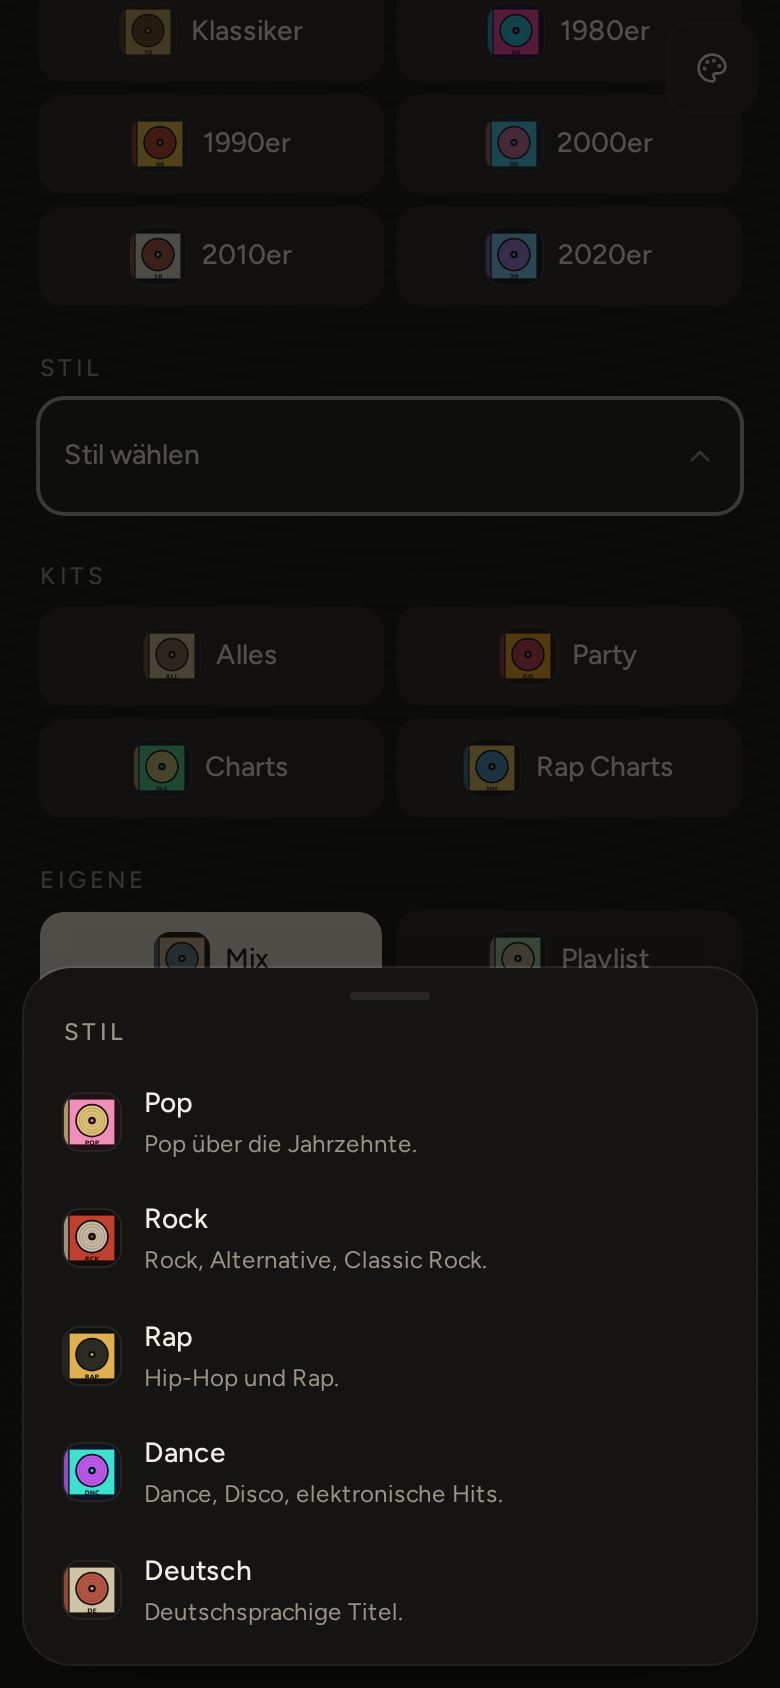
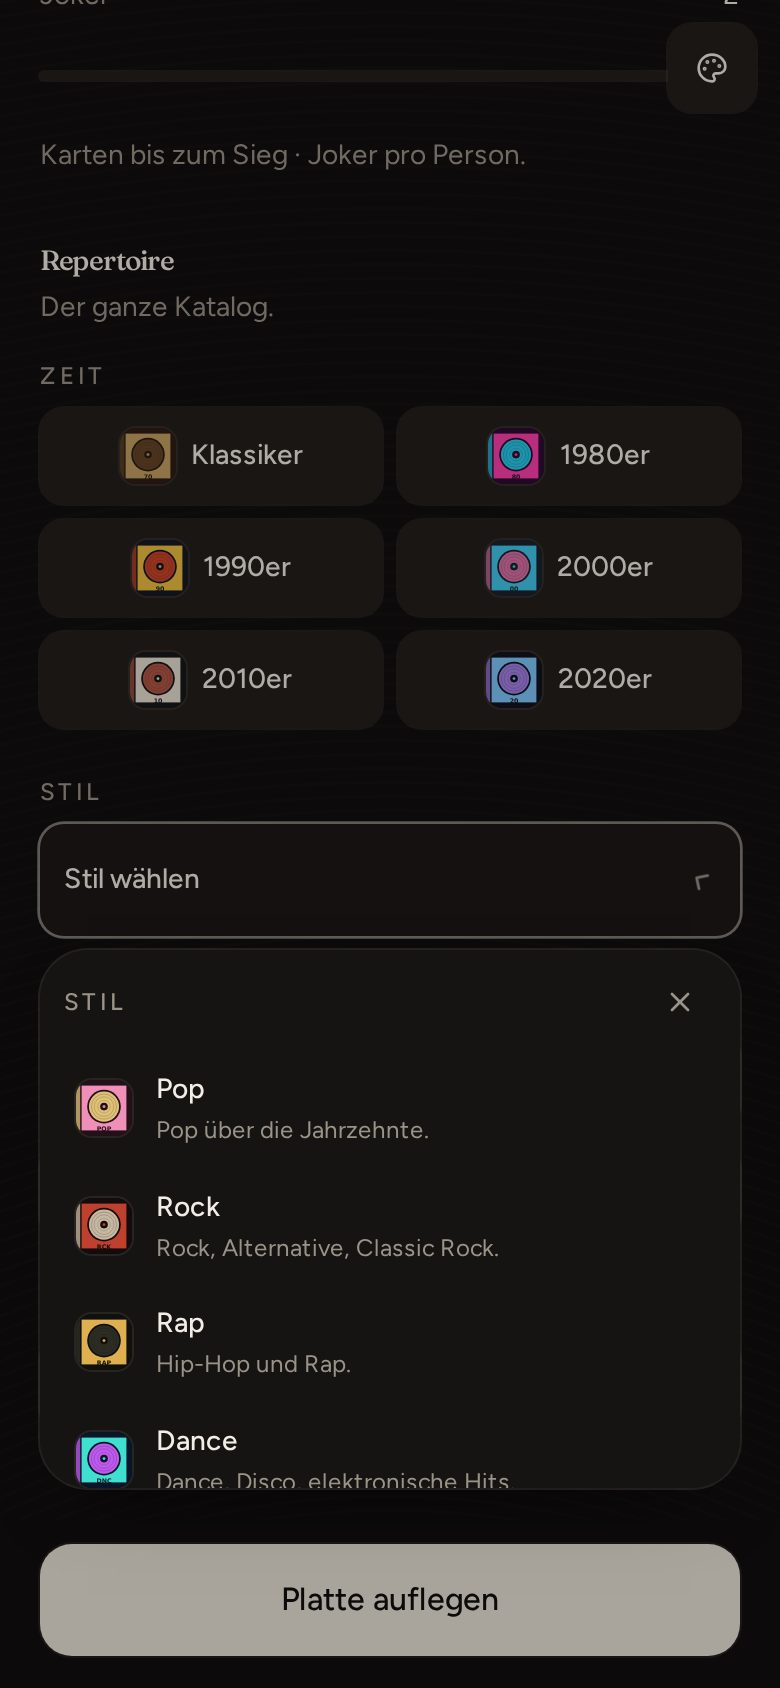
Mobile-Menüs klappen am Knopf auf, nicht unten.
Spiel, Stil und Genre bleiben unter dem Feld und halten Abstand zur Startleiste.

diff --git a/src/components/game/menu-select.tsx b/src/components/game/menu-select.tsx
@@ -20,22 +20,6 @@ type MenuSelectProps<T extends string> = {
   name?: string;
 };
 
-function useNarrow() {
-  const [narrow, setNarrow] = useState(() =>
-    typeof window !== "undefined" ? window.matchMedia("(max-width: 639px)").matches : false,
-  );
-
-  useEffect(() => {
-    const mq = window.matchMedia("(max-width: 639px)");
-    const apply = () => setNarrow(mq.matches);
-    apply();
-    mq.addEventListener("change", apply);
-    return () => mq.removeEventListener("change", apply);
-  }, []);
-
-  return narrow;
-}
-
 const TRIGGER =
   "flex h-14 w-full items-center gap-3 rounded-md bg-raised px-3 text-left text-fg shadow-border outline-none transition-[background-color,transform,box-shadow] duration-150 ease-out hover:-translate-y-px hover:bg-surface focus-visible:ring-2 focus-visible:ring-primary/70 data-[state=open]:bg-surface data-[state=open]:ring-2 data-[state=open]:ring-primary/70";
 
@@ -58,7 +42,6 @@ export function MenuSelect<T extends string>({
   const [open, setOpen] = useState(false);
   const [box, setBox] = useState<PanelBox>({ left: 0, width: 320, maxHeight: 352 });
   const triggerRef = useRef<HTMLButtonElement>(null);
-  const narrow = useNarrow();
   const current = items.find((item) => item.id === value);
 
   function place() {
@@ -66,12 +49,14 @@ export function MenuSelect<T extends string>({
     if (!el) return;
     const r = el.getBoundingClientRect();
     const gap = 8;
-    const below = window.innerHeight - r.bottom - gap - 12;
-    const above = r.top - gap - 12;
-    const openUp = below < 240 && above > below;
-    const maxHeight = Math.min(22 * 16, Math.max(openUp ? above : below, 160));
-    const width = Math.min(Math.max(r.width, 240), window.innerWidth - 24);
-    const left = Math.min(Math.max(12, r.left), window.innerWidth - width - 12);
+    const gutter = 12;
+    const reserve = window.innerWidth < 1024 ? 96 : 16;
+    const below = window.innerHeight - r.bottom - gap - reserve;
+    const above = r.top - gap - gutter;
+    const openUp = below < 180 && above > below;
+    const maxHeight = Math.min(28 * 16, Math.max(openUp ? above : below, 140));
+    const width = Math.min(Math.max(r.width, 200), window.innerWidth - gutter * 2);
+    const left = Math.min(Math.max(gutter, r.left), window.innerWidth - width - gutter);
     setBox(
       openUp
         ? { bottom: window.innerHeight - r.top + gap, left, width, maxHeight }
@@ -86,9 +71,12 @@ export function MenuSelect<T extends string>({
   }
 
   function openMenu() {
-    place();
-    setOpen(true);
-    sfxTick();
+    triggerRef.current?.scrollIntoView({ block: "center", behavior: "auto" });
+    window.requestAnimationFrame(() => {
+      place();
+      setOpen(true);
+      sfxTick();
+    });
   }
 
   useEffect(() => {
@@ -129,50 +117,6 @@ export function MenuSelect<T extends string>({
     </>
   );
 
-  const list = (
-    <>
-      {items.map((item) => {
-        const selected = item.id === value;
-        return (
-          <button
-            key={item.id}
-            type="button"
-            role="option"
-            aria-selected={selected}
-            onMouseEnter={() => {
-              if (!selected) sfxHover();
-            }}
-            onClick={() => {
-              onChange(item.id);
-              close();
-            }}
-            className={cn(
-              "flex min-h-14 w-full items-center gap-3 rounded-md px-3 py-2.5 text-left",
-              "transition-colors duration-150",
-              selected ? "bg-primary text-primary-fg" : "text-fg hover:bg-raised",
-            )}
-          >
-            {item.art ? <span className="shrink-0">{item.art}</span> : null}
-            <span className="min-w-0 flex-1">
-              <span className="block text-sm font-medium">{item.label}</span>
-              {item.blurb ? (
-                <span
-                  className={cn(
-                    "mt-0.5 block text-xs leading-snug",
-                    selected ? "text-primary-fg/80" : "text-muted",
-                  )}
-                >
-                  {item.blurb}
-                </span>
-              ) : null}
-            </span>
-            {selected ? <Check className="size-4 shrink-0" strokeWidth={2} /> : null}
-          </button>
-        );
-      })}
-    </>
-  );
-
   return (
     <div>
       <button
@@ -201,54 +145,71 @@ export function MenuSelect<T extends string>({
                 role="listbox"
                 aria-label={ariaLabel}
                 data-menu-panel={name ?? ariaLabel}
-                className={cn(
-                  "absolute overflow-hidden rounded-xl bg-surface text-fg shadow-lift",
-                  narrow
-                    ? "menu-sheet inset-x-3 bottom-3 max-h-[min(80dvh,36rem)]"
-                    : "menu-panel",
-                )}
-                style={
-                  narrow
-                    ? undefined
-                    : {
-                        top: box.top,
-                        bottom: box.bottom,
-                        left: box.left,
-                        width: box.width,
-                        maxHeight: box.maxHeight,
-                      }
-                }
+                className="menu-panel absolute overflow-hidden rounded-xl bg-surface text-fg shadow-lift"
+                style={{
+                  top: box.top,
+                  bottom: box.bottom,
+                  left: box.left,
+                  width: box.width,
+                  maxHeight: box.maxHeight,
+                }}
               >
                 <div className="flex items-center justify-between gap-3 px-3 pt-2">
-                  {narrow ? (
-                    <div className="mx-auto h-1 w-10 rounded-full bg-border" />
-                  ) : (
-                    <p className="text-xs font-medium tracking-[0.16em] text-muted uppercase">
-                      {ariaLabel}
-                    </p>
-                  )}
+                  <p className="text-xs font-medium tracking-[0.16em] text-muted uppercase">
+                    {ariaLabel}
+                  </p>
                   <button
                     type="button"
                     aria-label="Menü schließen"
                     onClick={close}
-                    className="ml-auto flex size-9 shrink-0 items-center justify-center rounded-md text-muted hover:bg-raised hover:text-fg"
+                    className="flex size-9 shrink-0 items-center justify-center rounded-md text-muted hover:bg-raised hover:text-fg"
                   >
                     <X className="size-4" />
                   </button>
                 </div>
-                {narrow ? (
-                  <p className="px-3 pb-2 text-xs font-medium tracking-[0.16em] text-muted uppercase">
-                    {ariaLabel}
-                  </p>
-                ) : null}
                 <div
-                  className={cn(
-                    "overflow-y-auto p-1.5",
-                    narrow ? "max-h-[min(70dvh,32rem)] pb-[max(0.5rem,env(safe-area-inset-bottom))]" : "",
-                  )}
-                  style={narrow ? undefined : { maxHeight: Math.max(box.maxHeight - 48, 120) }}
+                  className="overflow-y-auto p-1.5"
+                  style={{ maxHeight: Math.max(box.maxHeight - 48, 120) }}
                 >
-                  {list}
+                  {items.map((item) => {
+                    const selected = item.id === value;
+                    return (
+                      <button
+                        key={item.id}
+                        type="button"
+                        role="option"
+                        aria-selected={selected}
+                        onMouseEnter={() => {
+                          if (!selected) sfxHover();
+                        }}
+                        onClick={() => {
+                          onChange(item.id);
+                          close();
+                        }}
+                        className={cn(
+                          "flex min-h-14 w-full items-center gap-3 rounded-md px-3 py-2.5 text-left",
+                          "transition-colors duration-150",
+                          selected ? "bg-primary text-primary-fg" : "text-fg hover:bg-raised",
+                        )}
+                      >
+                        {item.art ? <span className="shrink-0">{item.art}</span> : null}
+                        <span className="min-w-0 flex-1">
+                          <span className="block text-sm font-medium">{item.label}</span>
+                          {item.blurb ? (
+                            <span
+                              className={cn(
+                                "mt-0.5 block text-xs leading-snug",
+                                selected ? "text-primary-fg/80" : "text-muted",
+                              )}
+                            >
+                              {item.blurb}
+                            </span>
+                          ) : null}
+                        </span>
+                        {selected ? <Check className="size-4 shrink-0" strokeWidth={2} /> : null}
+                      </button>
+                    );
+                  })}
                 </div>
               </div>
             </div>,
